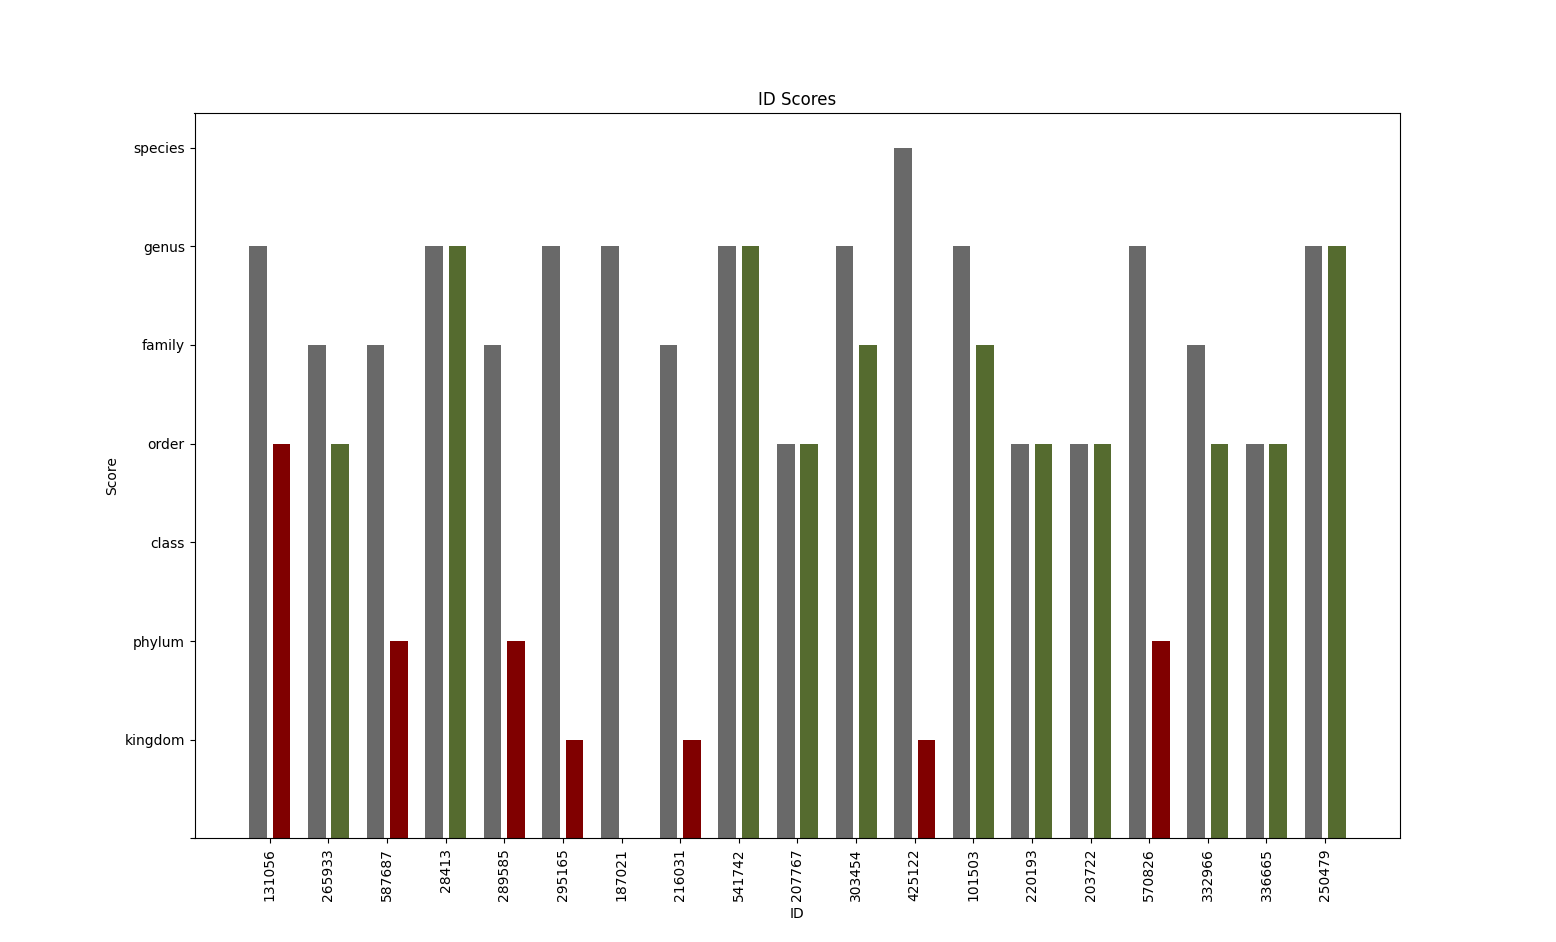
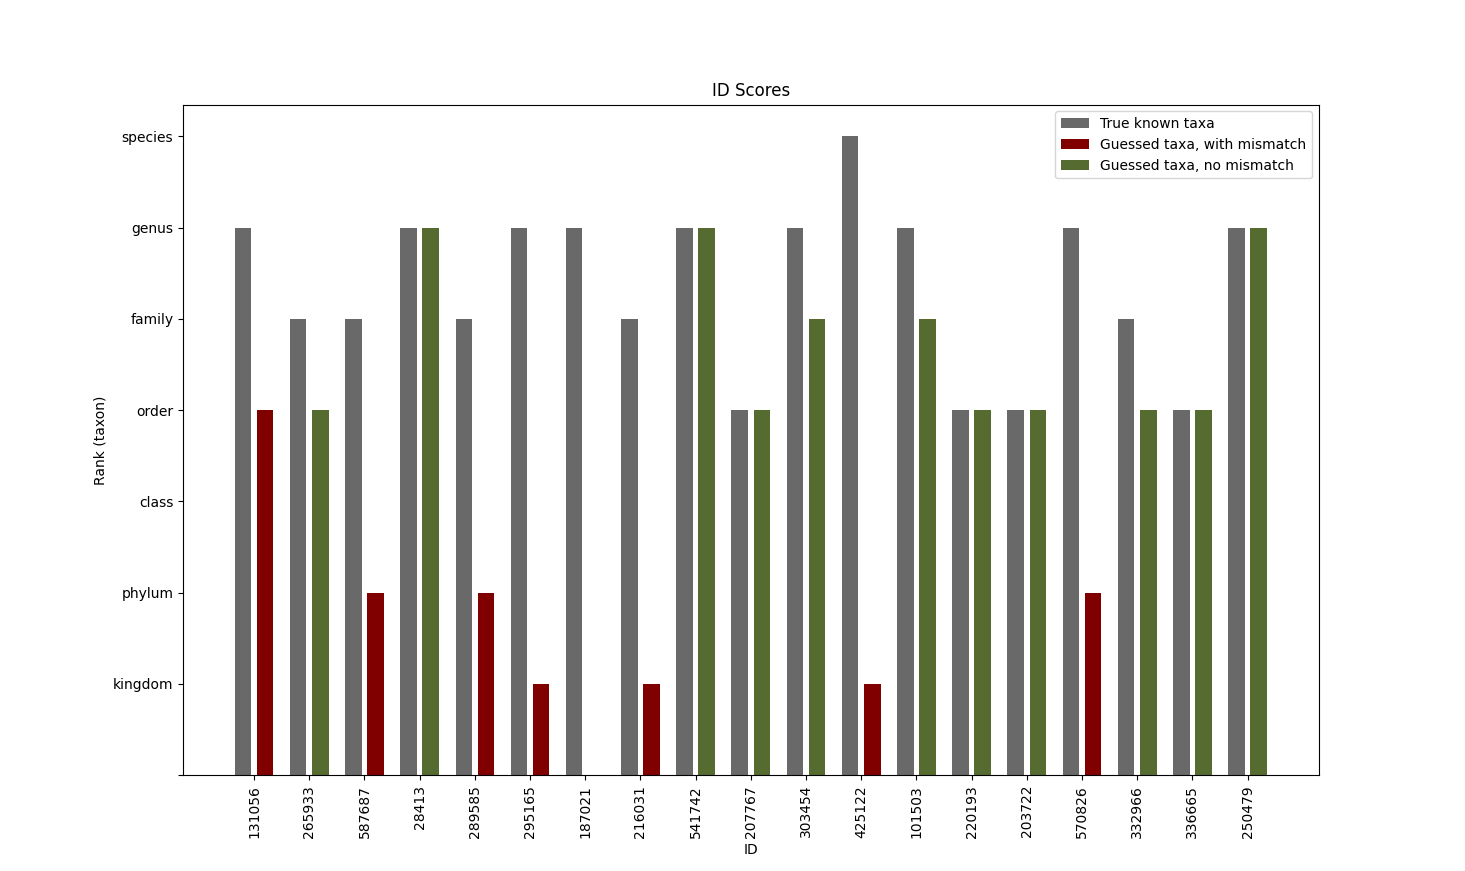
added labels to the graph

diff --git a/plotting_100_guesses.py b/plotting_100_guesses.py
@@ -16,19 +16,19 @@ x_pos = list(range(len(keys)))
 #         for v in values], width=0.4, color='powderblue', align='center')
 
 plt.bar([i-0.2 for i in x_pos], [v[1] if v[1] >= 0 else 0 for v in values],
-        width=0.3, color='dimgray', align='center')
+        width=0.3, color='dimgray', align='center', label='True known taxa')
 
 plt.bar([i+0.2 for i in x_pos], [abs(v[0]) if v[0] <
-        0 else 0 for v in values], width=0.3, color='maroon', align='center')
+        0 else 0 for v in values], width=0.3, color='maroon', align='center', label='Guessed taxa, with mismatch')
 
 plt.bar([i+0.2 for i in x_pos], [v[0] if v[0] >=
-        0 else 0 for v in values], width=0.3, color='darkolivegreen', align='center')
+        0 else 0 for v in values], width=0.3, color='darkolivegreen', align='center', label='Guessed taxa, no mismatch')
 
 # plt.bar([i-0.2 for i in x_pos], [v[1]
 #         for v in values], width=0.4, color='peachpuff', align='center')
 
 plt.xlabel("ID")
-plt.ylabel("Score")
+plt.ylabel("Rank (taxon)")
 plt.title("ID Scores")
 
 
@@ -38,6 +38,6 @@ plt.xticks(x_pos, keys, rotation=90)
 # plt.yticks(range(8))
 plt.yticks(range(8), ["", "kingdom", "phylum", "class",
            "order", "family", "genus", "species"])
-
+plt.legend()
 
 plt.show()
